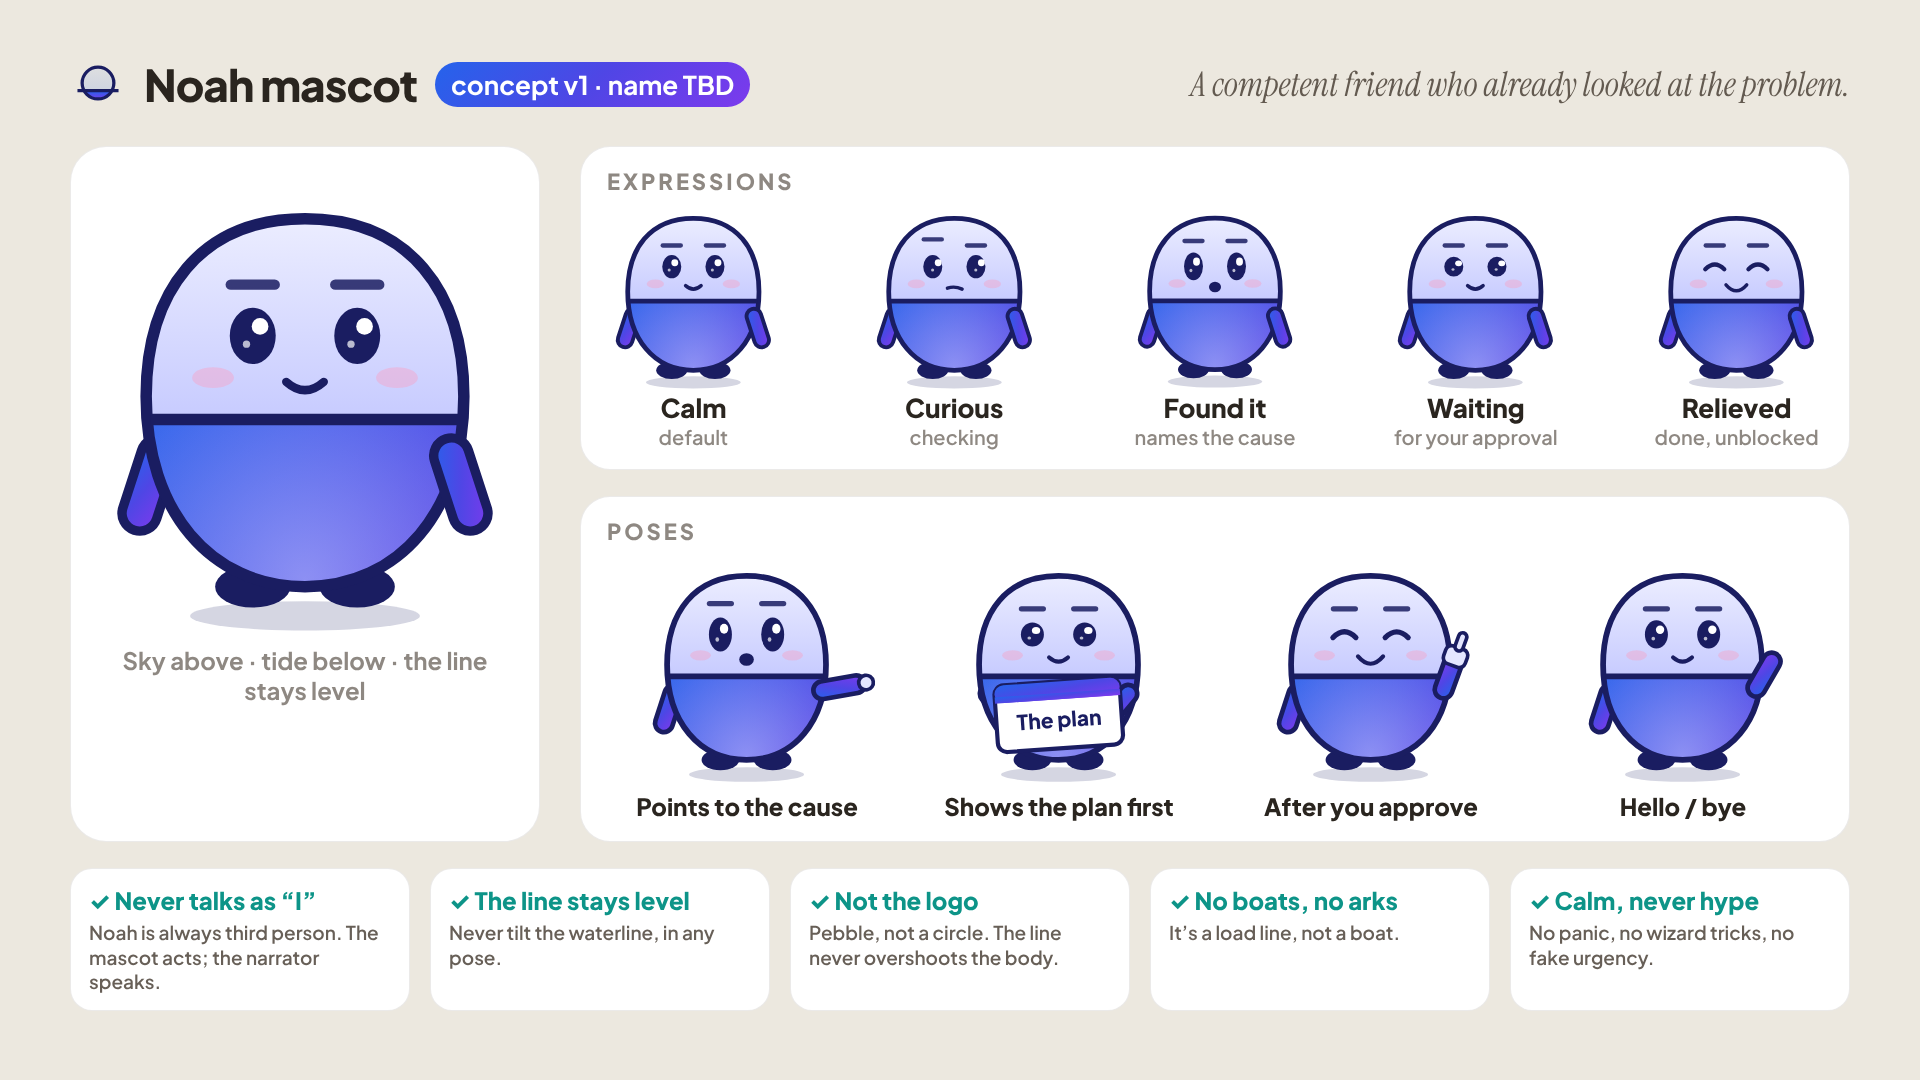
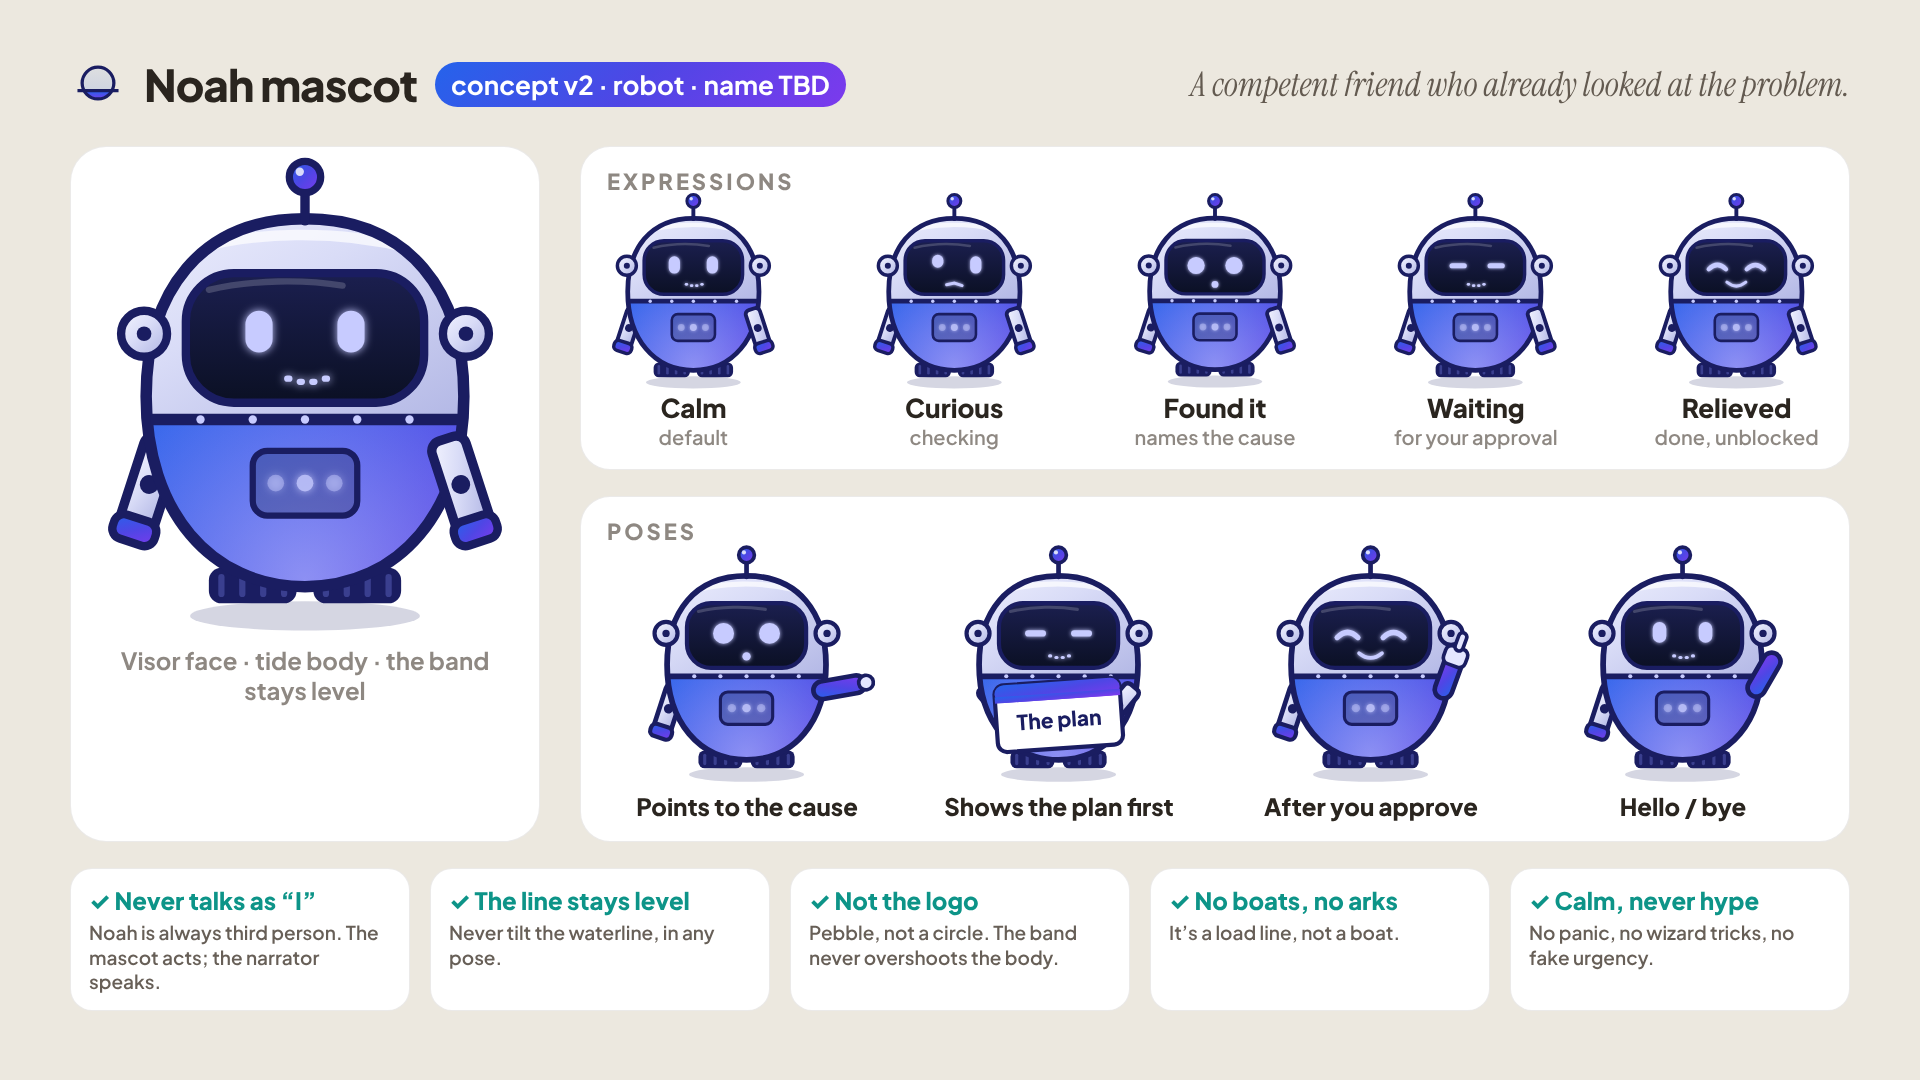
Noah mascot v2: robot look
Visor face with LED eyes/mouth (all 5 expressions), antenna, ear bolts,
brushed-metal head, riveted level waterline band, chest panel lights,
jointed arms and treads. Lights use lit-horizon/tide colours (commit teal
and amber stay reserved per the brand kit). Soft v1 kept as variant='soft'.

Claude-Session: https://claude.ai/code/session_01Mt1Tfwu9agpKzou5Hxhmnv

diff --git a/video/src/components/Mascot.tsx b/video/src/components/Mascot.tsx
@@ -1,6 +1,7 @@
 import React from 'react';
 
-// Noah mascot (concept v1). A calm, silent helper character for Shorts.
+// Noah mascot (concept v2: robot; v1 'soft' still available via variant="soft").
+// A calm, silent helper character for Shorts.
 //
 // Brand guardrails (from brand-kit.html):
 // - Noah is always third person. The mascot never speaks as "I"; it acts, the narrator talks.
@@ -24,7 +25,9 @@ export const Mascot: React.FC<{
   bob?: number; // vertical offset in px (for idle float)
   look?: number; // -1 left … 1 right (pupils)
   cardText?: string;
-}> = ({size = 400, expression = 'calm', pose = 'idle', blink = 1, glow = 0.6, bob = 0, look = 0, cardText = 'Plan'}) => {
+  variant?: 'soft' | 'robot';
+}> = ({size = 400, expression = 'calm', pose = 'idle', blink = 1, glow = 0.6, bob = 0, look = 0, cardText = 'Plan', variant = 'robot'}) => {
+  const robot = variant === 'robot';
   const W = 400;
   const H = 440;
   // body: soft pebble, slightly wider at the bottom
@@ -41,7 +44,9 @@ export const Mascot: React.FC<{
     const x = side === 'L' ? 62 : 338;
     return (
       <g transform={`rotate(${angle} ${x} 260)`}>
-        <rect x={x - 17} y={250} width={34} height={92} rx={17} fill="url(#mTide)" stroke={NAVY} strokeWidth={9} />
+        <rect x={x - 17} y={250} width={34} height={92} rx={robot ? 10 : 17} fill={robot ? 'url(#mMetal)' : 'url(#mTide)'} stroke={NAVY} strokeWidth={9} />
+        {robot && <circle cx={x} cy={296} r={9} fill={NAVY} />}
+        {robot && <rect x={x - 21} y={330} width={42} height={24} rx={10} fill="url(#mTide)" stroke={NAVY} strokeWidth={8} />}
         {extra}
       </g>
     );
@@ -108,6 +113,22 @@ export const Mascot: React.FC<{
           <stop offset="0" stopColor="#F3F4FF" />
           <stop offset="1" stopColor={SKY_SHADE} />
         </linearGradient>
+        <linearGradient id="mMetal" x1="0" y1="0" x2="1" y2="1">
+          <stop offset="0" stopColor="#F4F5FF" />
+          <stop offset="0.45" stopColor="#D9DCF7" />
+          <stop offset="1" stopColor="#AEB3E3" />
+        </linearGradient>
+        <linearGradient id="mVisor" x1="0" y1="0" x2="0" y2="1">
+          <stop offset="0" stopColor="#1B1F4F" />
+          <stop offset="1" stopColor="#0B1024" />
+        </linearGradient>
+        <filter id="mLed" x="-50%" y="-50%" width="200%" height="200%">
+          <feGaussianBlur stdDeviation="4" result="b" />
+          <feMerge>
+            <feMergeNode in="b" />
+            <feMergeNode in="SourceGraphic" />
+          </feMerge>
+        </filter>
         <clipPath id="mBody">
           <path d={body} />
         </clipPath>
@@ -119,17 +140,79 @@ export const Mascot: React.FC<{
       <g transform={`translate(0 ${bob})`}>
         {left}
         {/* feet */}
-        <ellipse cx={150} cy={392} rx={36} ry={20} fill={NAVY} />
-        <ellipse cx={250} cy={392} rx={36} ry={20} fill={NAVY} />
+        {robot ? (
+          <>
+            <rect x={108} y={374} width={84} height={34} rx={12} fill={NAVY} />
+            <rect x={208} y={374} width={84} height={34} rx={12} fill={NAVY} />
+            {[120, 140, 160, 180, 220, 240, 260, 280].map((x) => (
+              <rect key={x} x={x - 3} y={380} width={6} height={22} rx={3} fill="#3A3F8F" />
+            ))}
+          </>
+        ) : (
+          <>
+            <ellipse cx={150} cy={392} rx={36} ry={20} fill={NAVY} />
+            <ellipse cx={250} cy={392} rx={36} ry={20} fill={NAVY} />
+          </>
+        )}
         {/* body: sky above, tide below, level line between */}
         <g clipPath="url(#mBody)">
-          <rect x={0} y={0} width={W} height={LINE_Y} fill="url(#mSky)" />
+          <rect x={0} y={0} width={W} height={LINE_Y} fill={robot ? 'url(#mMetal)' : 'url(#mSky)'} />
+          {robot && <path d="M90 70 C 150 52, 230 50, 300 68" stroke="white" strokeWidth={10} opacity={0.7} fill="none" strokeLinecap="round" />}
           <rect x={0} y={LINE_Y} width={W} height={H} fill="url(#mTide)" />
           <rect x={0} y={LINE_Y} width={W} height={H} fill="url(#mGlow)" />
         </g>
         <path d={body} fill="none" stroke={NAVY} strokeWidth={11} />
         <line x1={52} y1={LINE_Y} x2={348} y2={LINE_Y} stroke={NAVY} strokeWidth={11} strokeLinecap="butt" />
 
+        {robot ? (
+          <>
+        {/* antenna */}
+        <line x1={200} y1={42} x2={200} y2={6} stroke={NAVY} strokeWidth={9} strokeLinecap="round" />
+        <circle cx={200} cy={0} r={15} fill="url(#mTide)" stroke={NAVY} strokeWidth={7} />
+        <circle cx={195} cy={-5} r={4} fill="white" opacity={0.8} />
+        {/* ear bolts */}
+        {[46, 354].map((x) => (
+          <g key={x}>
+            <circle cx={x} cy={150} r={22} fill="url(#mMetal)" stroke={NAVY} strokeWidth={8} />
+            <circle cx={x} cy={150} r={7} fill={NAVY} />
+          </g>
+        ))}
+        {/* rivets on the waterline band */}
+        {[100, 150, 200, 250, 300].map((x) => (
+          <circle key={x} cx={x} cy={LINE_Y} r={4} fill="#C7CBFF" />
+        ))}
+        {/* chest panel */}
+        <rect x={150} y={262} width={100} height={62} rx={14} fill="rgba(11,16,36,.25)" stroke={NAVY} strokeWidth={6} />
+        {[172, 200, 228].map((x, i) => (
+          <circle key={x} cx={x} cy={293} r={8} fill={i === 1 ? '#C7CBFF' : 'rgba(199,203,255,.45)'} filter="url(#mLed)" opacity={i === 1 ? 0.6 + 0.4 * glow : 1} />
+        ))}
+        {/* visor face */}
+        <rect x={86} y={92} width={228} height={124} rx={46} fill="url(#mVisor)" stroke={NAVY} strokeWidth={8} />
+        <path d="M108 108 C 150 98, 200 98, 236 104" stroke="white" strokeWidth={6} opacity={0.18} fill="none" strokeLinecap="round" />
+        <g filter="url(#mLed)">
+          {[156, 244].map((cx, i) => {
+            const lift = (i === 0 ? browL : browR) * 0.6;
+            if (happy) return <path key={cx} d={`M${cx - 20} ${158} Q ${cx} ${138} ${cx + 20} ${158}`} stroke="#C7CBFF" strokeWidth={10} fill="none" strokeLinecap="round" />;
+            if (expression === 'found') return <circle key={cx} cx={cx + px} cy={150} r={20 * blink} fill="#C7CBFF" />;
+            if (expression === 'waiting')
+              return <rect key={cx} x={cx - 20 + px} y={150 - 6 * blink} width={40} height={12 * blink} rx={6} fill="#C7CBFF" />;
+            const h = (expression === 'curious' && i === 0 ? 30 : 40) * blink;
+            return <rect key={cx} x={cx - 13 + px} y={148 - h / 2 + lift} width={26} height={Math.max(4, h)} rx={13} fill="#C7CBFF" />;
+          })}
+          {/* LED mouth */}
+          {expression === 'found' ? (
+            <circle cx={200} cy={194} r={8} fill="#C7CBFF" />
+          ) : happy ? (
+            <path d="M178 188 Q 200 206 222 188" stroke="#C7CBFF" strokeWidth={7} fill="none" strokeLinecap="round" />
+          ) : expression === 'curious' ? (
+            <path d="M182 194 L 200 190 L 218 196" stroke="#C7CBFF" strokeWidth={7} fill="none" strokeLinecap="round" />
+          ) : (
+            [184, 196, 208, 220].map((x, i) => <rect key={x} x={x - 4} y={190 + (i === 1 || i === 2 ? 3 : 0)} width={8} height={6} rx={3} fill="#C7CBFF" />)
+          )}
+        </g>
+          </>
+        ) : (
+          <>
         {/* face (in the sky) */}
         {[150, 250].map((cx, i) => (
           <g key={cx}>
@@ -156,6 +239,8 @@ export const Mascot: React.FC<{
           <path d="M184 202 Q 200 196 218 204" stroke={NAVY} strokeWidth={8} fill="none" strokeLinecap="round" />
         ) : (
           <path d={happy ? 'M176 194 Q 200 222 224 194' : 'M182 196 Q 200 212 218 196'} stroke={NAVY} strokeWidth={8} fill="none" strokeLinecap="round" />
+        )}
+          </>
         )}
         {right}
         {prop}

diff --git a/video/src/series/MascotSheet.tsx b/video/src/series/MascotSheet.tsx
@@ -26,7 +26,7 @@ export const MascotSheet: React.FC = () => (
     <div style={{display: 'flex', alignItems: 'center', gap: 18}}>
       <NoahMark size={56} />
       <span style={{fontSize: 44, fontWeight: 800, color: C.ink, letterSpacing: -1}}>Noah mascot</span>
-      <span style={{fontSize: 26, fontWeight: 700, color: 'white', backgroundImage: AURORA, borderRadius: 999, padding: '6px 16px'}}>concept v1 · name TBD</span>
+      <span style={{fontSize: 26, fontWeight: 700, color: 'white', backgroundImage: AURORA, borderRadius: 999, padding: '6px 16px'}}>concept v2 · robot · name TBD</span>
       <span style={{flex: 1}} />
       <span style={{fontFamily: SERIF, fontStyle: 'italic', fontSize: 34, color: C.ink2}}>A competent friend who already looked at the problem.</span>
     </div>
@@ -35,7 +35,7 @@ export const MascotSheet: React.FC = () => (
       {/* hero */}
       <div style={{width: 470, borderRadius: 36, background: 'white', border: `1px solid ${C.line}`, display: 'flex', flexDirection: 'column', alignItems: 'center', padding: '30px 0 20px'}}>
         <Mascot size={460} expression="calm" />
-        <div style={{fontSize: 24, fontWeight: 700, color: C.mute, marginTop: 8, textAlign: 'center', padding: '0 30px'}}>Sky above · tide below · the line stays level</div>
+        <div style={{fontSize: 24, fontWeight: 700, color: C.mute, marginTop: 8, textAlign: 'center', padding: '0 30px'}}>Visor face · tide body · the band stays level</div>
       </div>
 
       <div style={{flex: 1, display: 'flex', flexDirection: 'column', gap: 26}}>
@@ -72,7 +72,7 @@ export const MascotSheet: React.FC = () => (
       {[
         ['Never talks as “I”', 'Noah is always third person. The mascot acts; the narrator speaks.'],
         ['The line stays level', 'Never tilt the waterline, in any pose.'],
-        ['Not the logo', 'Pebble, not a circle. The line never overshoots the body.'],
+        ['Not the logo', 'Pebble, not a circle. The band never overshoots the body.'],
         ['No boats, no arks', 'It’s a load line, not a boat.'],
         ['Calm, never hype', 'No panic, no wizard tricks, no fake urgency.'],
       ].map(([h, t]) => (
